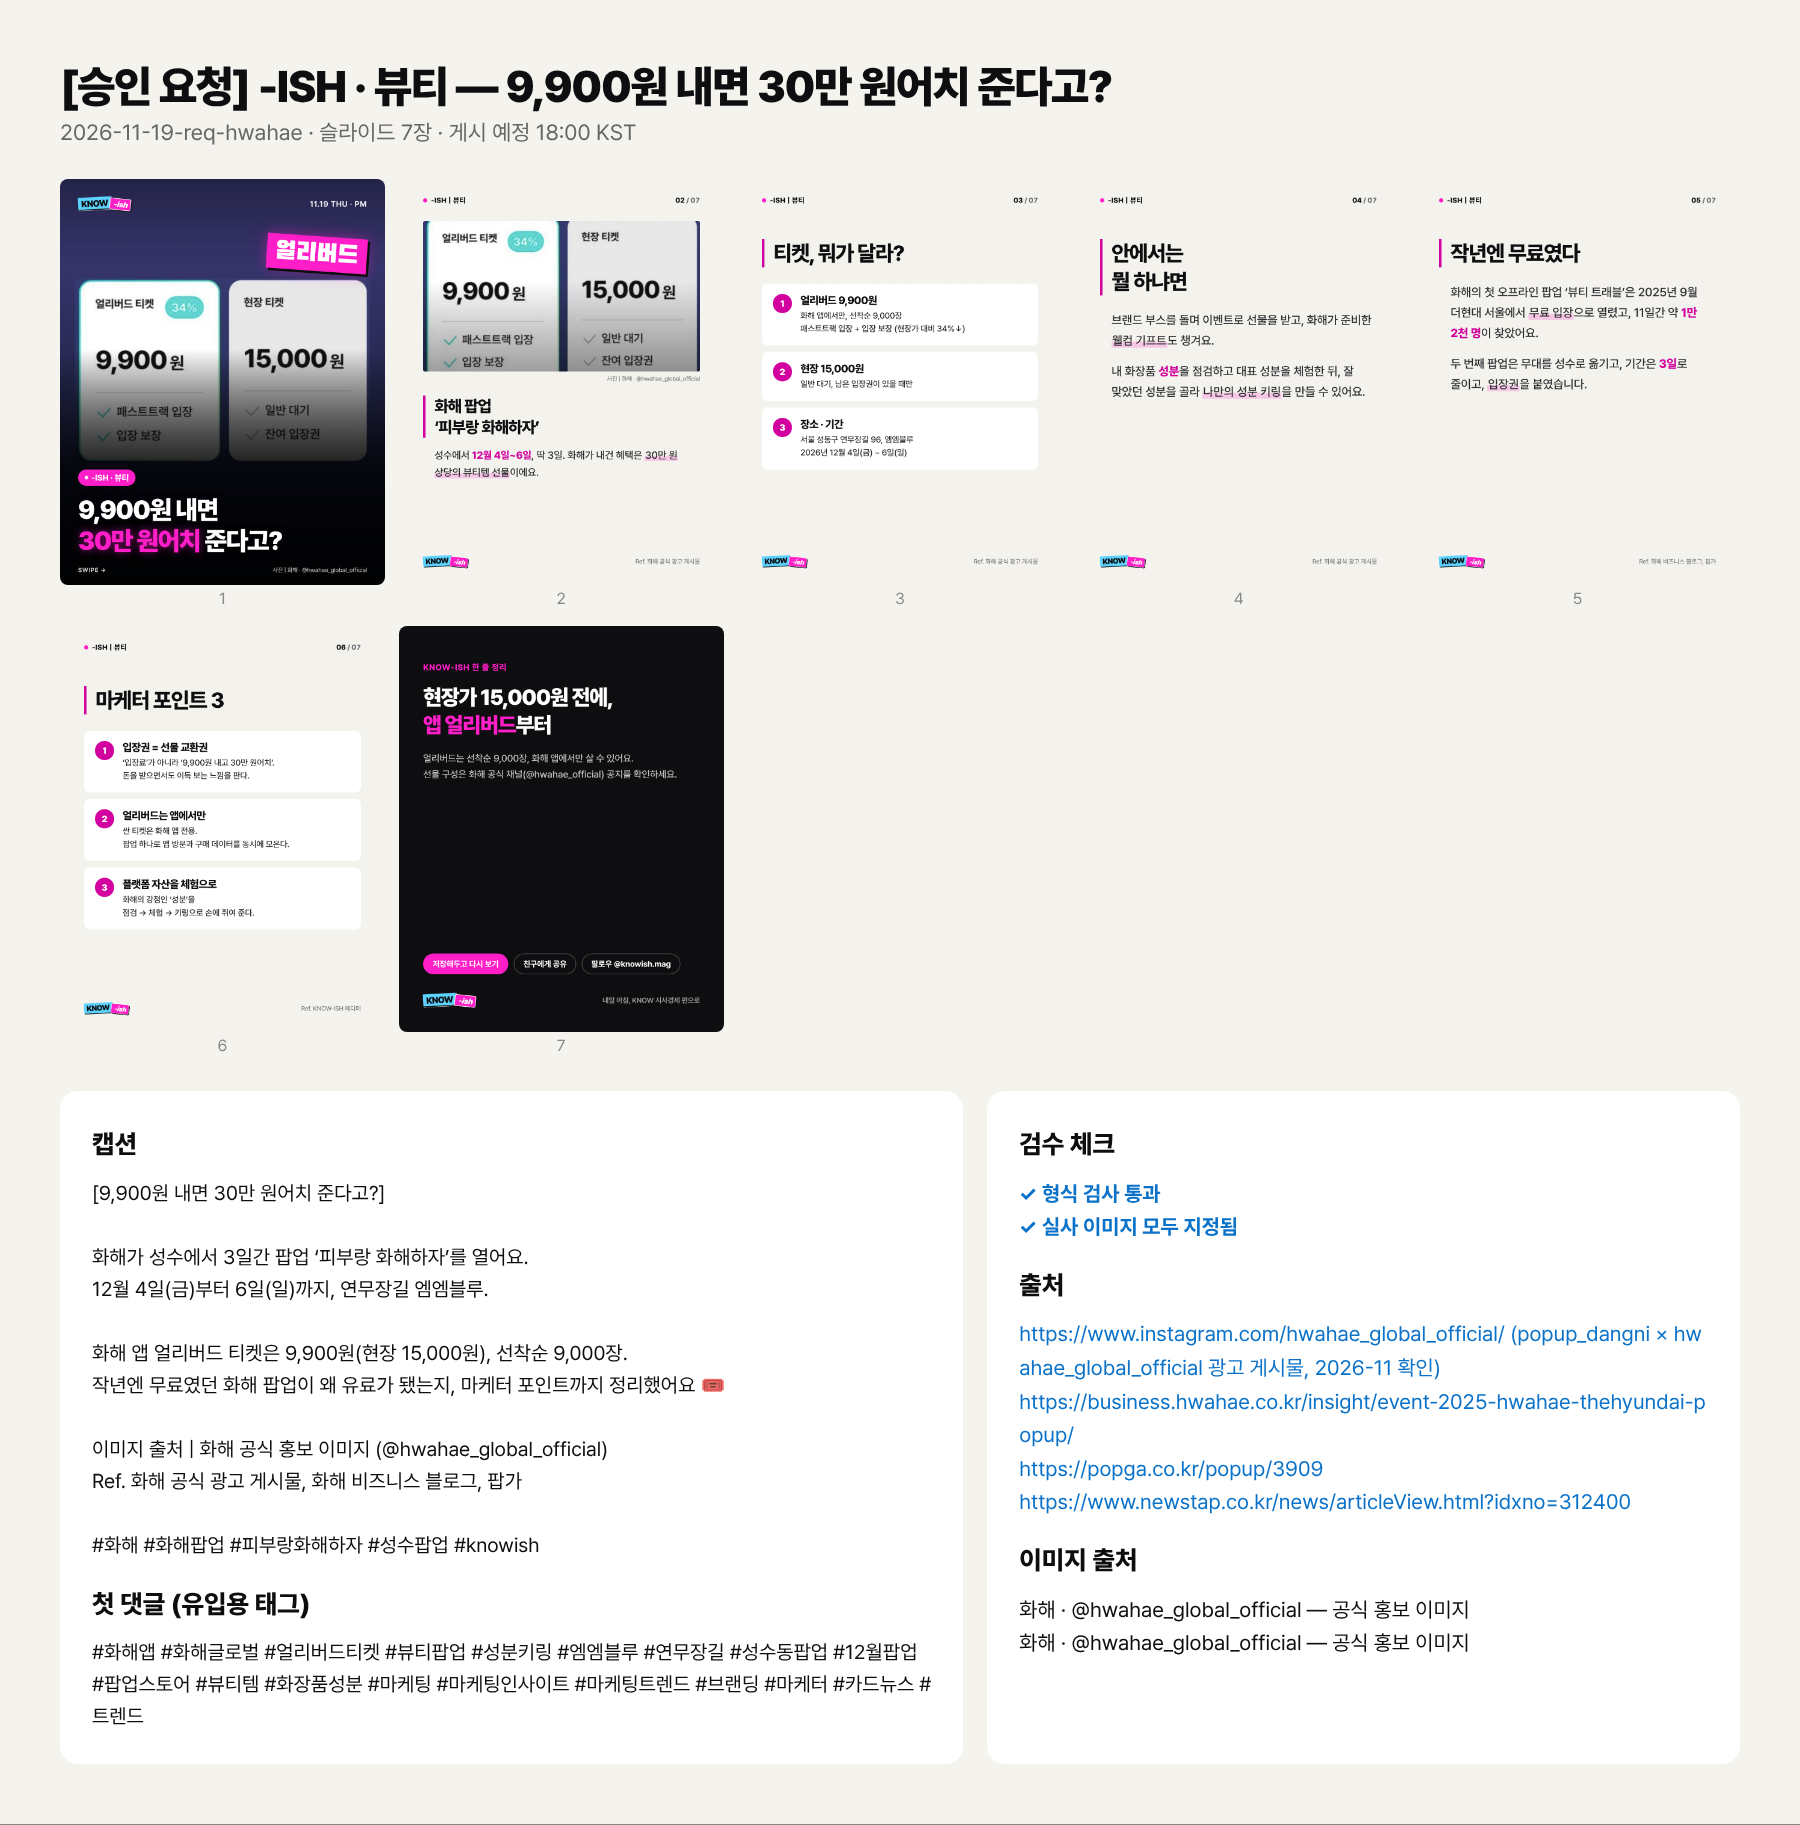
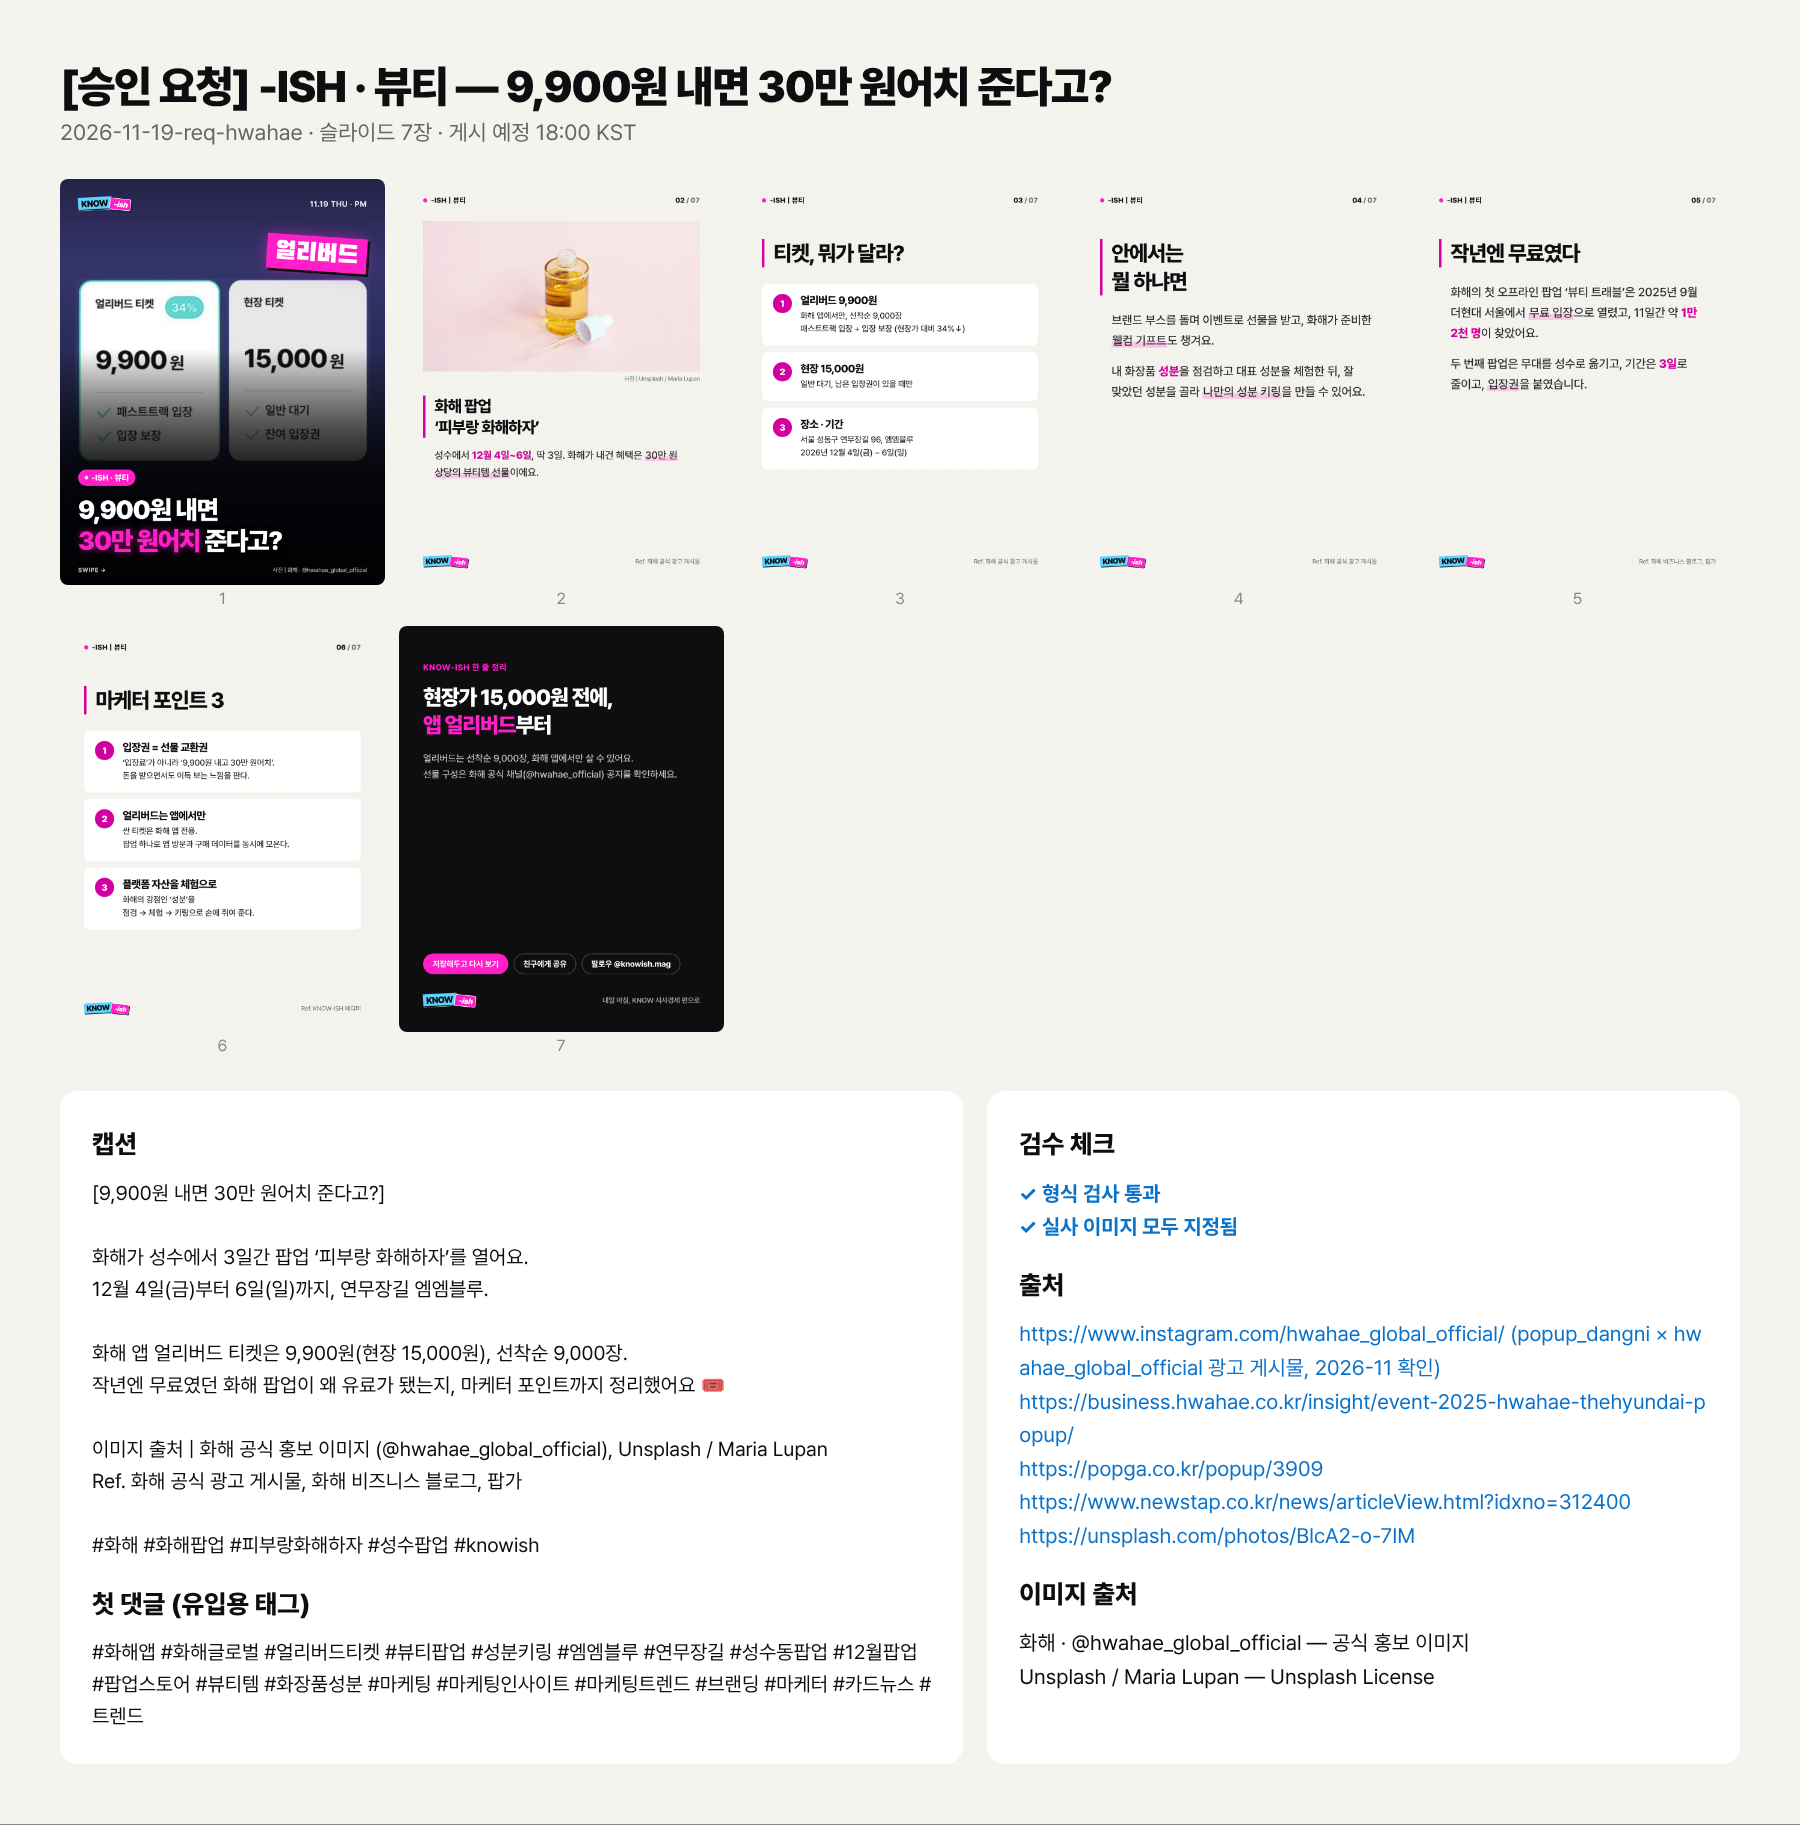
onoff: 화해 팝업 2장 사진 교체 (Unsplash)
Claude-Session: https://claude.ai/code/session_019qCDgsYHt1czGjVNujdh64

diff --git a/onoff/posts/2026-11-19-req-hwahae/review.md b/onoff/posts/2026-11-19-req-hwahae/review.md
@@ -14,7 +14,7 @@
 화해 앱 얼리버드 티켓은 9,900원(현장 15,000원), 선착순 9,000장.
 작년엔 무료였던 화해 팝업이 왜 유료가 됐는지, 마케터 포인트까지 정리했어요 🎟
 
-이미지 출처 | 화해 공식 홍보 이미지 (@hwahae_global_official)
+이미지 출처 | 화해 공식 홍보 이미지 (@hwahae_global_official), Unsplash / Maria Lupan
 Ref. 화해 공식 광고 게시물, 화해 비즈니스 블로그, 팝가
 
 #화해 #화해팝업 #피부랑화해하자 #성수팝업 #knowish
@@ -30,9 +30,10 @@ Ref. 화해 공식 광고 게시물, 화해 비즈니스 블로그, 팝가
 - https://business.hwahae.co.kr/insight/event-2025-hwahae-thehyundai-popup/
 - https://popga.co.kr/popup/3909
 - https://www.newstap.co.kr/news/articleView.html?idxno=312400
+- https://unsplash.com/photos/BlcA2-o-7IM
 
 ## 이미지
 - 화해 · @hwahae_global_official · 공식 홍보 이미지
-- 화해 · @hwahae_global_official · 공식 홍보 이미지
+- Unsplash / Maria Lupan · Unsplash License
 
 승인하려면 이 세션에 **"승인"**, 수정하려면 바꿀 내용을 적어주세요.
